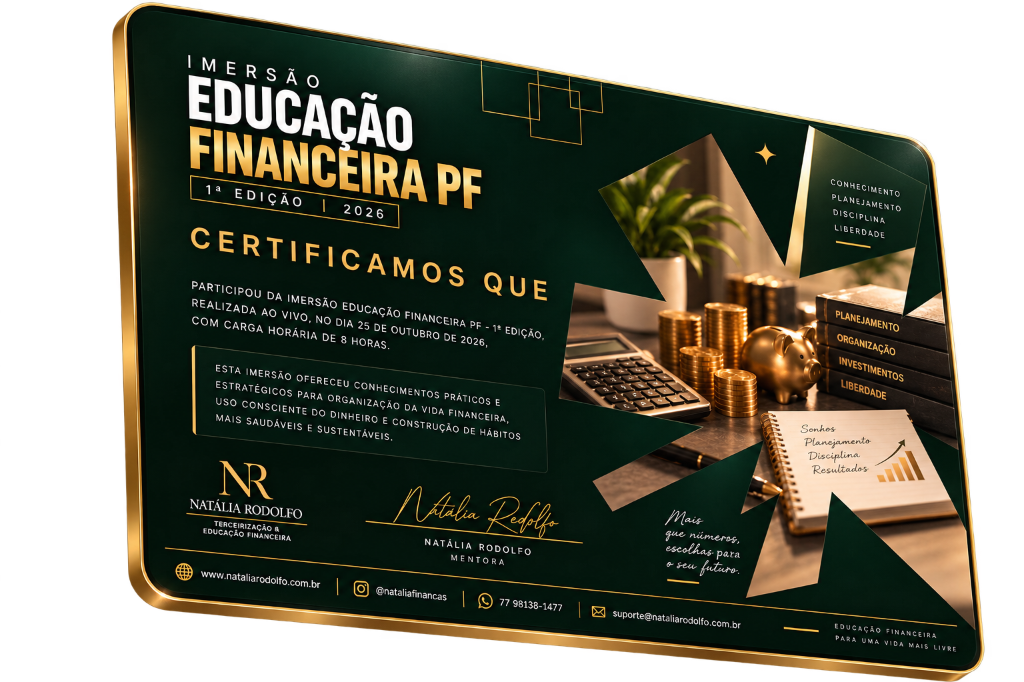
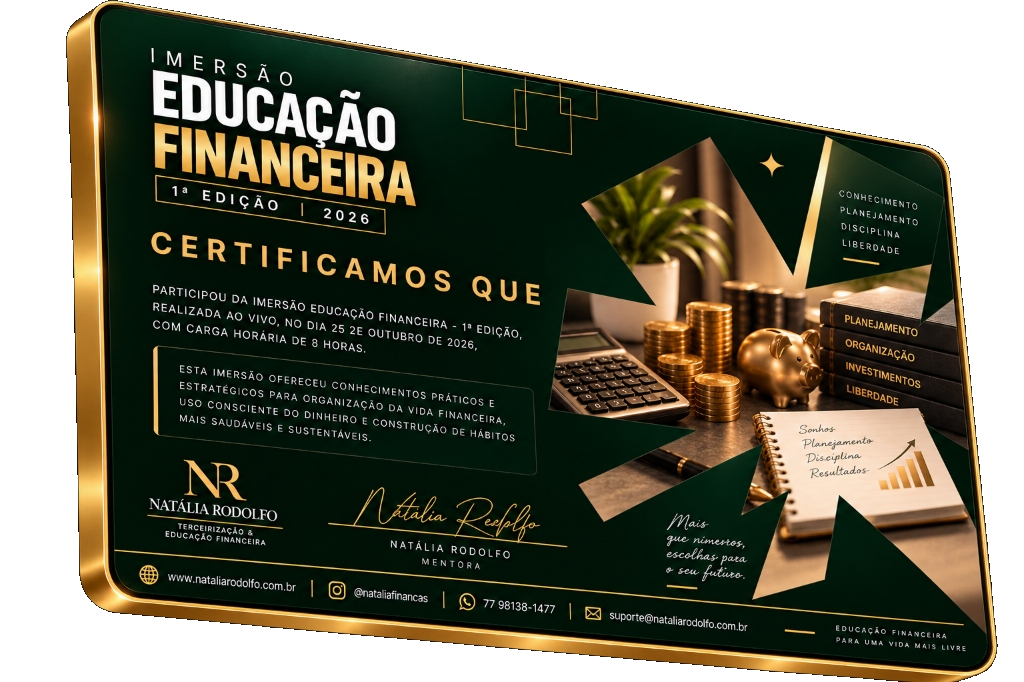
att

diff --git a/AGENTS.md b/AGENTS.md
@@ -8,3 +8,11 @@
 > Commits you push to the connected branch sync back to Lovable and show up in
 > the editor, so keep the branch in a working state.
 <!-- LOVABLE:END -->
+
+## Diretrizes de Git e Versionamento
+
+> [!CAUTION]
+> **NÃO FAZER COMMIT OU SYNC/PUSH AUTOMATICAMENTE:**
+> - O assistente **NUNCA** deve executar comandos `git commit`, `git push`, `git merge` ou sincronização automática.
+> - O processo de `git add`, `git commit` e `git push` será feito **manualmente e exclusivamente pelo USUÁRIO**.
+> - Ao concluir as tarefas ou alterações de código, o assistente deve apenas validar a compilação (`build`) se necessário, e apresentar ao usuário os arquivos modificados para que ele próprio decida quando e como comitar.
